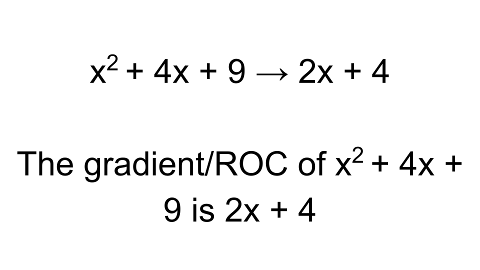
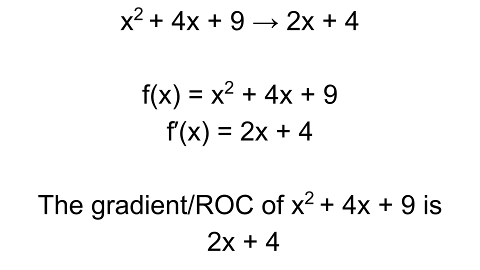
25/06 - Finished inc/dex and min/max lessons - 5/8 done
Updated images as well

diff --git a/Maths Program.py b/Maths Program.py
@@ -125,7 +125,7 @@ class LessonInfo3(LessonTemplate):
         LessonTemplate.__init__(self,master)
         self.title.config(text="Differentiation;Tangents")
         self.imagefile.config(file=get_image("3.png"))
-        self.pagenumber.config(text="1/7")
+        self.pagenumber.config(text="1/8")
         self.explanation.config(text="This lesson will explain to you what a tangent is, what a normal is, and how to use the gradient to find the equation of a tangent.")
         self.nextbutton.config(command=lambda:master.switch_frame(Lesson3P1))
         self.backbutton.config(command=lambda:master.switch_frame(LessonSelect))
@@ -133,37 +133,52 @@ class LessonInfo3(LessonTemplate):
 class LessonInfo4(LessonTemplate):
     def __init__(self,master):
         LessonTemplate.__init__(self,master)
-        self.title.config(text="Differentiation;Δ Graident")
+        self.title.config(text="Differentiation;Increase/Decrease")
         self.imagefile.config(file=get_image("4.png"))
-        self.explanation.config(text="This lesson will show you how to find increasing and decreasing functions using the changes (Δ) in gradient.")
+        self.pagenumber.config(text="1/5")
+        self.explanation.config(text="This lesson will show you how determine whether a function is increasing or decreasing via differentiation methods.")
+        self.nextbutton.config(command=lambda:master.switch_frame(Lesson4P1))
+        self.backbutton.config(command=lambda:master.switch_frame(LessonSelect))
 
 class LessonInfo5(LessonTemplate):
     def __init__(self,master):
         LessonTemplate.__init__(self,master)
         self.title.config(text="Differentiation;Min/Max")
         self.imagefile.config(file=get_image("5.png"))
+        self.pagenumber.config(text="1/5")
         self.explanation.config(text="This lesson will explain to you what a minimum is, what a maximum is and how to use differentiation to find them.")
+        self.nextbutton.config(command=lambda:master.switch_frame(Lesson5P1))
+        self.backbutton.config(command=lambda:master.switch_frame(LessonSelect))
 
 class LessonInfo6(LessonTemplate):
     def __init__(self,master):
         LessonTemplate.__init__(self,master)
         self.title.config(text="Integration;Basics")
         self.imagefile.config(file=get_image("6.png"))
+        self.pagenumber.config(text="1/8")
         self.explanation.config(text="This lesson will show you the basics behind integration, what integration actually does and how to integrate a quadratic.")
+        self.nextbutton.config(command=lambda:master.switch_frame(Lesson4P1))
+        self.backbutton.config(command=lambda:master.switch_frame(LessonSelect))
 
 class LessonInfo7(LessonTemplate):
     def __init__(self,master):
         LessonTemplate.__init__(self,master)
         self.title.config(text="Integration;Functions")
         self.imagefile.config(file=get_image("7.png"))
+        self.pagenumber.config(text="1/8")
         self.explanation.config(text="This lesson will walk you through finding the original equation by using integration methods.")
+        self.nextbutton.config(command=lambda:master.switch_frame(Lesson4P1))
+        self.backbutton.config(command=lambda:master.switch_frame(LessonSelect))
 
 class LessonInfo8(LessonTemplate):
     def __init__(self,master):
         LessonTemplate.__init__(self,master)
         self.title.config(text="Integration;Kinematics")
         self.imagefile.config(file=get_image("8.png"))
+        self.pagenumber.config(text="1/8")
         self.explanation.config(text="This lesson will explain to you what kinematics are and how apply integration/differentiation techniques to them.")
+        self.nextbutton.config(command=lambda:master.switch_frame(Lesson4P1))
+        self.backbutton.config(command=lambda:master.switch_frame(LessonSelect))
 
 class LessonInfo9(LessonTemplate):
     def __init__(self,master):
@@ -172,6 +187,11 @@ class LessonInfo9(LessonTemplate):
         self.imagefile.config(file=get_image("shrek.gif"),format="gif -index 1600")
         self.explanation.config(text="This is the final quiz! You should be comfortable with all of the topics and concepts covered in this program before you attempt this.")
         self.nextbutton.config(text="Start the quiz!")
+        self.backbutton.config(command=lambda:master.switch_frame(LessonSelect))
+
+
+#############################################################
+#Lessons start
 
 class Lesson1P1(LessonTemplate):
     def __init__(self,master):
@@ -209,7 +229,7 @@ class Lesson1P4(LessonTemplate):
         self.title.config(text="Differentiation;Basics")
         self.imagefile.config(file=get_image("lesson1 4.png"))
         self.pagenumber.config(text="5/6")
-        self.explanation.config(text="Differentiating an equation finds its gradient, or its Rate of Change. Gradients will be explained later, but you need to know that to find the rate of change of an equation you have to differentiate it.")
+        self.explanation.config(text="Differentiating an equation finds its gradient, or its Rate of Change. Gradients will be explained later, but you need to know that to find the rate of change of an equation you have to differentiate it. Also, take note of the notation f'(x), which means the derivative of x.")
         self.nextbutton.config(command=lambda:master.switch_frame(Lesson1P5))
         self.backbutton.config(command=lambda:master.switch_frame(Lesson1P3))
 
@@ -268,7 +288,7 @@ class Lesson3P1(LessonTemplate):
         LessonTemplate.__init__(self,master)
         self.title.config(text="Differentiation;Tangents")
         self.imagefile.config(file=get_image("lesson3 1.png"))
-        self.pagenumber.config(text="2/7")
+        self.pagenumber.config(text="2/8")
         self.explanation.config(text="A tangent line to a given quadratic equation is a line that has the same gradient as the point of the curve it touches.")
         self.nextbutton.config(command=lambda:master.switch_frame(Lesson3P2))
         self.backbutton.config(command=lambda:master.switch_frame(LessonInfo3))
@@ -278,7 +298,7 @@ class Lesson3P2(LessonTemplate):
         LessonTemplate.__init__(self,master)
         self.title.config(text="Differentiation;Tangents")
         self.imagefile.config(file=get_image("lesson3 2.png"))
-        self.pagenumber.config(text="3/7")
+        self.pagenumber.config(text="3/8")
         self.explanation.config(text="A normal line is a line that is perpendicular to the tangent line (i.e it is rotated 90 degrees).")
         self.nextbutton.config(command=lambda:master.switch_frame(Lesson3P3))
         self.backbutton.config(command=lambda:master.switch_frame(Lesson3P1))
@@ -288,7 +308,7 @@ class Lesson3P3(LessonTemplate):
         LessonTemplate.__init__(self,master)
         self.title.config(text="Differentiation;Tangents")
         self.imagefile.config(file=get_image("lesson3 3.png"))
-        self.pagenumber.config(text="4/7")
+        self.pagenumber.config(text="4/8")
         self.explanation.config(text="To find the equation of a tangent to a curve at a specific x value, you first find the gradient of the curve at that x value. We call the gradient value m and the x value a.")
         self.nextbutton.config(command=lambda:master.switch_frame(Lesson3P4))
         self.backbutton.config(command=lambda:master.switch_frame(Lesson3P2))
@@ -298,7 +318,7 @@ class Lesson3P4(LessonTemplate):
         LessonTemplate.__init__(self,master)
         self.title.config(text="Differentiation;Tangents")
         self.imagefile.config(file=get_image("lesson3 4.png"))
-        self.pagenumber.config(text="5/7")
+        self.pagenumber.config(text="5/8")
         self.explanation.config(text="Then, substitute the x value back into the original equation to find its corresponding y value. We call this value b.")
         self.nextbutton.config(command=lambda:master.switch_frame(Lesson3P5))
         self.backbutton.config(command=lambda:master.switch_frame(Lesson3P3))
@@ -308,7 +328,7 @@ class Lesson3P5(LessonTemplate):
         LessonTemplate.__init__(self,master)
         self.title.config(text="Differentiation;Tangents")
         self.imagefile.config(file=get_image("lesson3 5.png"))
-        self.pagenumber.config(text="6/7")
+        self.pagenumber.config(text="6/8")
         self.explanation.config(text="Finally, substitute a,b and m into the equation y - b = m(x - a), and rearrange to find the equation of the tangent.")
         self.nextbutton.config(command=lambda:master.switch_frame(Lesson3P6))
         self.backbutton.config(command=lambda:master.switch_frame(Lesson3P4))
@@ -318,10 +338,101 @@ class Lesson3P6(LessonTemplate):
         LessonTemplate.__init__(self,master)
         self.title.config(text="Differentiation;Tangents")
         self.imagefile.config(file=get_image("lesson3 6.png"))
-        self.pagenumber.config(text="7/7")
+        self.pagenumber.config(text="7/8")
         self.explanation.config(text="To find the normal line of a tangent, go through the same procedure as finding a tangent, except use the equation y - b = -1/m(x - a ).")
+        self.nextbutton.config(command=lambda:master.switch_frame(Lesson3P7))
+        self.backbutton.config(command=lambda:master.switch_frame(Lesson3P5))
+
+class Lesson3P7(LessonTemplate):
+    def __init__(self,master):
+        LessonTemplate.__init__(self,master)
+        self.title.config(text="Differentiation;Basics")
+        self.imagefile.config(file=get_image("parrot.png"))
+        self.pagenumber.config(text="8/8")
+        self.explanation.config(text="Congratulations, you finished this lesson! You should now know how to find the tangent and normal lines of an equation. Go back through the lesson if you're unsure on anything, otherwise take the quiz!")
         self.nextbutton.config(text="To the Quiz!",command=lambda:master.switch_frame())
         self.backbutton.config(text="Back to Menu",command=lambda:master.switch_frame(LessonSelect))
+
+class Lesson4P1(LessonTemplate):
+    def __init__(self,master):
+        LessonTemplate.__init__(self,master)
+        self.title.config(text="Differentiation;Increase/Decrease")
+        self.imagefile.config(file=get_image("lesson4 1.png"))
+        self.pagenumber.config(text="2/5")
+        self.explanation.config(text="When a function is increasing, its gradient is positive (going up as it moves right), and when it is decreasing, its gradient is negative (going down as it moves right). When it is still (straight), it is stationary.")
+        self.nextbutton.config(command=lambda:master.switch_frame(Lesson4P2))
+        self.backbutton.config(command=lambda:master.switch_frame(LessonInfo4))
+
+class Lesson4P2(LessonTemplate):
+    def __init__(self,master):
+        LessonTemplate.__init__(self,master)
+        self.title.config(text="Differentiation;Increase/Decrease")
+        self.imagefile.config(file=get_image("lesson4 2.png"))
+        self.pagenumber.config(text="3/5")
+        self.explanation.config(text="To determine whether a function is increasing or decreasing at a certain point, derive it and substitute in the x value of that point. Note that f'(x) means the derivative of x. If the result is positive, it is increasing. If it is negative, it is decreasing. If it is 0, it is stationary.")
+        self.nextbutton.config(command=lambda:master.switch_frame(Lesson4P3))
+        self.backbutton.config(command=lambda:master.switch_frame(Lesson4P1))
+
+class Lesson4P3(LessonTemplate):
+    def __init__(self,master):
+        LessonTemplate.__init__(self,master)
+        self.title.config(text="Differentiation;Increase/Decrease")
+        self.imagefile.config(file=get_image("lesson4 3.png"))
+        self.pagenumber.config(text="4/5")
+        self.explanation.config(text="Take a look at the worked example.")
+        self.nextbutton.config(command=lambda:master.switch_frame(Lesson4P4))
+        self.backbutton.config(command=lambda:master.switch_frame(Lesson4P2))
+
+class Lesson4P4(LessonTemplate):
+    def __init__(self,master):
+        LessonTemplate.__init__(self,master)
+        self.title.config(text="Differentiation;Basics")
+        self.imagefile.config(file=get_image("parrot.png"))
+        self.pagenumber.config(text="5/5")
+        self.explanation.config(text="Congratulations, you finished this lesson! You should now know how to determine whether an equation is increasing, decreasing or stationary. Go back through the lesson if you're unsure on anything, otherwise take the quiz!")
+        self.nextbutton.config(text="To the Quiz!",command=lambda:master.switch_frame())
+        self.backbutton.config(text="Back to Menu",command=lambda:master.switch_frame(LessonSelect))
+
+class Lesson5P1(LessonTemplate):
+    def __init__(self,master):
+        LessonTemplate.__init__(self,master)
+        self.title.config(text="Differentiation;Min/Max")
+        self.imagefile.config(file=get_image("lesson5 1.png"))
+        self.pagenumber.config(text="2/5")
+        self.explanation.config(text="A turning point is a point where f'(x) = 0. A maximum is a 'peak' and a minimum is a 'valley'.")
+        self.nextbutton.config(command=lambda:master.switch_frame(Lesson5P2))
+        self.backbutton.config(command=lambda:master.switch_frame(LessonInfo5))
+
+class Lesson5P2(LessonTemplate):
+    def __init__(self,master):
+        LessonTemplate.__init__(self,master)
+        self.title.config(text="Differentiation;Min/Max")
+        self.imagefile.config(file=get_image("lesson5 2.png"))
+        self.pagenumber.config(text="3/5")
+        self.explanation.config(text="To determine whether a quadratic's turning point is a minimum or a maximum, derive its equation twice.")
+        self.nextbutton.config(command=lambda:master.switch_frame(Lesson5P3))
+        self.backbutton.config(command=lambda:master.switch_frame(Lesson5P1))
+
+class Lesson5P3(LessonTemplate):
+    def __init__(self,master):
+        LessonTemplate.__init__(self,master)
+        self.title.config(text="Differentiation;Min/Max")
+        self.imagefile.config(file=get_image("lesson5 3.png"))
+        self.pagenumber.config(text="4/5")
+        self.explanation.config(text="Take a look at the worked example.")
+        self.nextbutton.config(command=lambda:master.switch_frame(Lesson5P4))
+        self.backbutton.config(command=lambda:master.switch_frame(Lesson5P2))
+
+class Lesson5P4(LessonTemplate):
+    def __init__(self,master):
+        LessonTemplate.__init__(self,master)
+        self.title.config(text="Differentiation;Min/Max")
+        self.imagefile.config(file=get_image("parrot.png"))
+        self.pagenumber.config(text="5/5")
+        self.explanation.config(text="Congratulations, you finished this lesson! You should now know how to determine whether an equation's turning point is a minimum or a maximum. Go back through the lesson if you're unsure on anything, otherwise take the quiz!")
+        self.nextbutton.config(text="To the Quiz!",command=lambda:master.switch_frame())
+        self.backbutton.config(text="Back to Menu",command=lambda:master.switch_frame(LessonSelect))
+
 
 #Defining the main subroutine
 def main():
